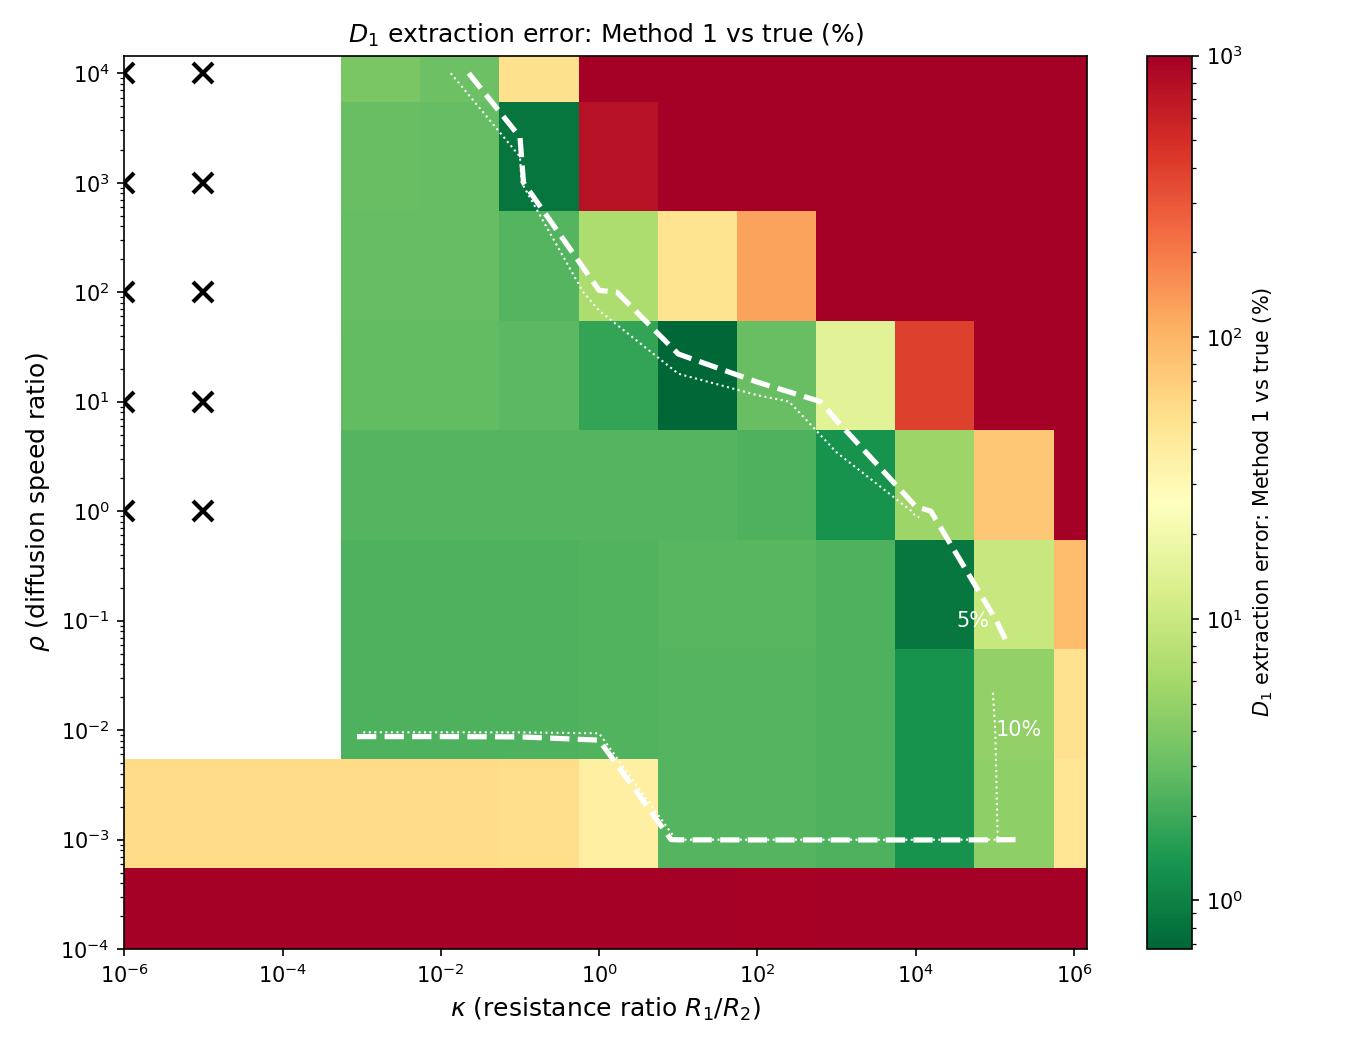
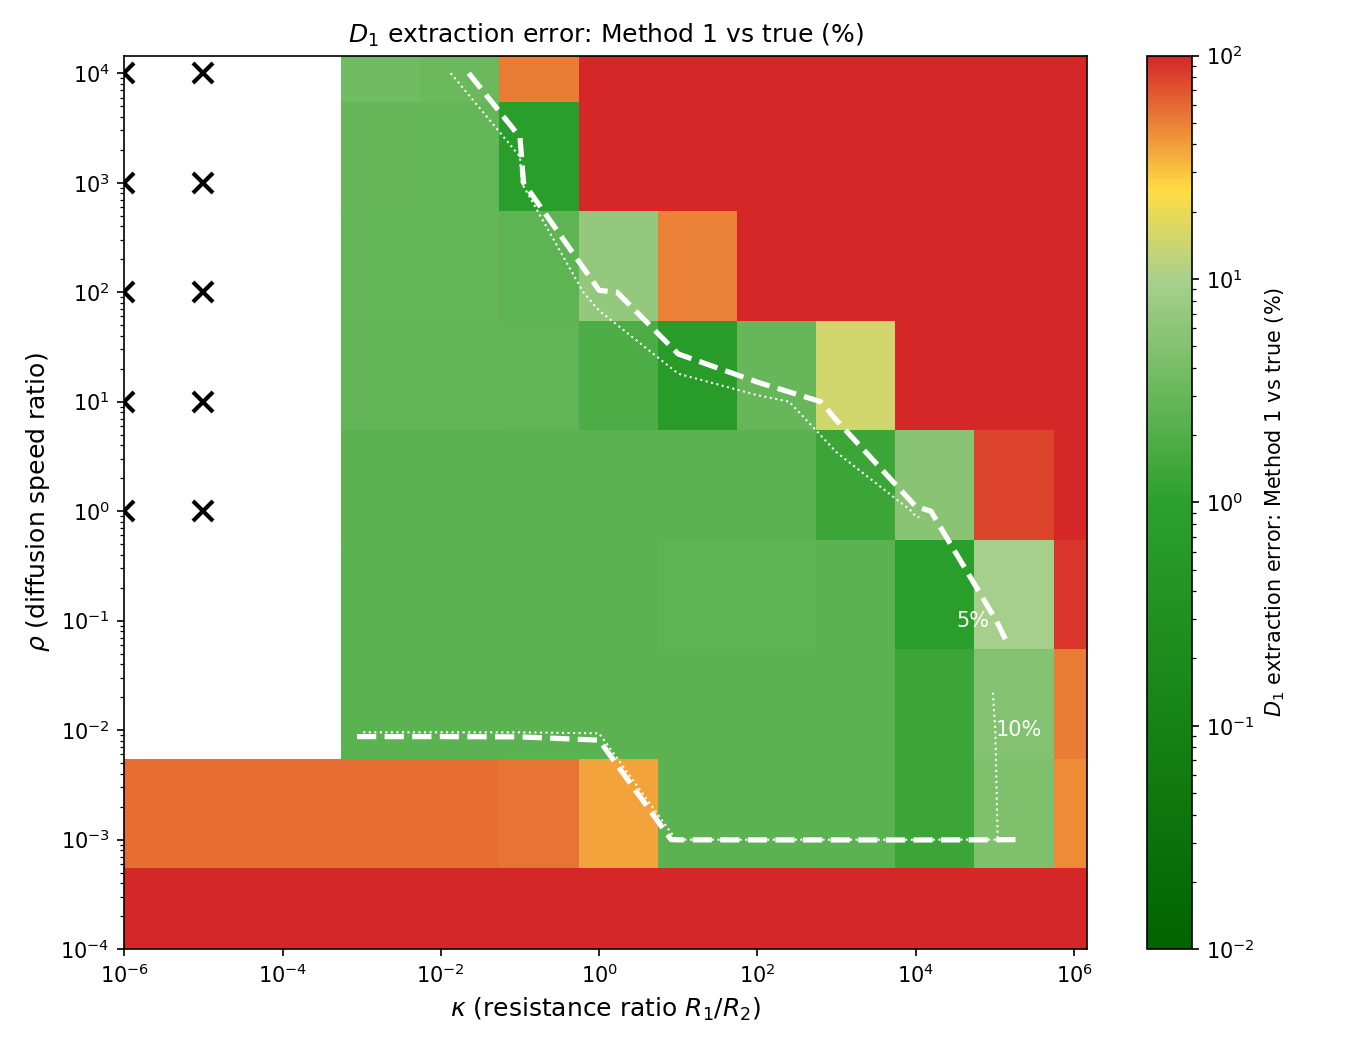
adjusted coloring of plots to be more consistent

diff --git a/python/analysis/sensitivity_sweep.py b/python/analysis/sensitivity_sweep.py
@@ -18,7 +18,7 @@ from scipy.optimize import minimize_scalar
 import matplotlib
 matplotlib.use("Agg")
 import matplotlib.pyplot as plt
-from matplotlib.colors import LogNorm
+from matplotlib.colors import LogNorm, LinearSegmentedColormap
 
 import festim as F
 
@@ -321,7 +321,17 @@ def main():
          "Phi1_error_2D", "RdYlGn_r"),
     ]
 
-    for data, label, fname, cmap in plot_specs:
+    # Unified color scale: mostly green below 10%, yellow/red above
+    fixed_vmin, fixed_vmax = 0.01, 100
+    error_cmap = LinearSegmentedColormap.from_list("error_green", [
+        (0.0,  "#006400"),   # dark green  — 0.01%
+        (0.50, "#2ca02c"),   # green       — 1%
+        (0.75, "#a8d08d"),   # light green — 10%
+        (0.85, "#ffdd44"),   # yellow      — ~30%
+        (1.0,  "#d62728"),   # red         — 100%
+    ])
+
+    for data, label, fname, _cmap in plot_specs:
         fig, ax = plt.subplots(figsize=(9, 7))
 
         valid = np.isfinite(data) & (data > 0)
@@ -330,12 +340,9 @@ def main():
             plt.close()
             continue
 
-        vmin = max(data[valid].min(), 0.01)
-        vmax = min(data[valid].max(), 1000)
-
-        pcm = ax.pcolormesh(KK, RR, np.clip(data, vmin, vmax),
-                             norm=LogNorm(vmin=vmin, vmax=vmax),
-                             cmap=cmap, shading="nearest")
+        pcm = ax.pcolormesh(KK, RR, np.clip(data, fixed_vmin, fixed_vmax),
+                             norm=LogNorm(vmin=fixed_vmin, vmax=fixed_vmax),
+                             cmap=error_cmap, shading="nearest")
         fig.colorbar(pcm, ax=ax, label=label)
 
         # 10% contour
